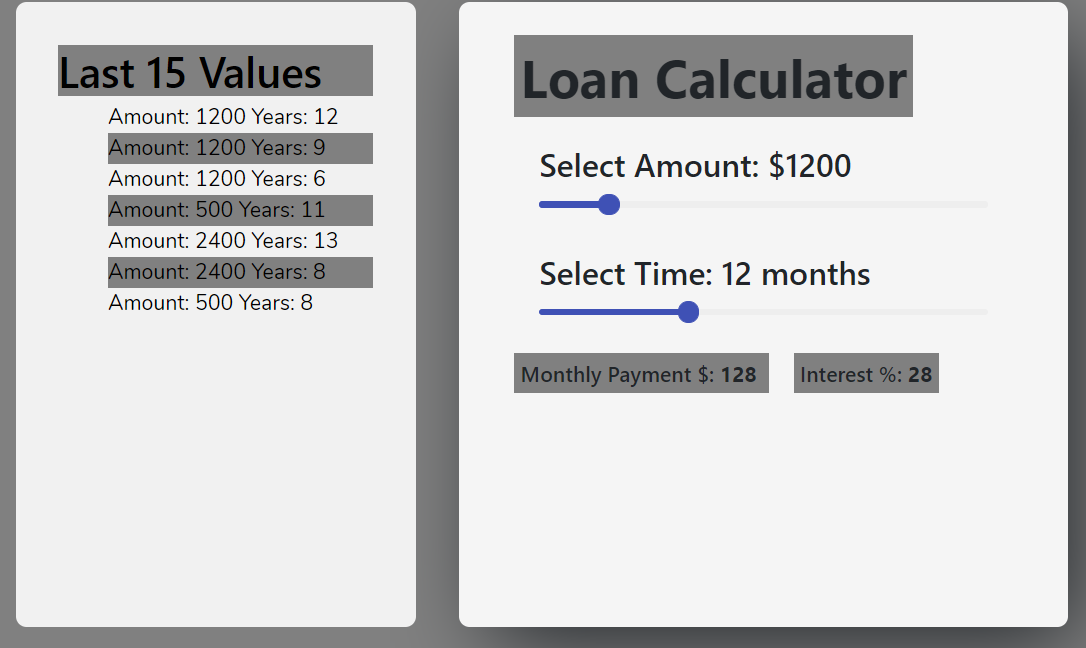
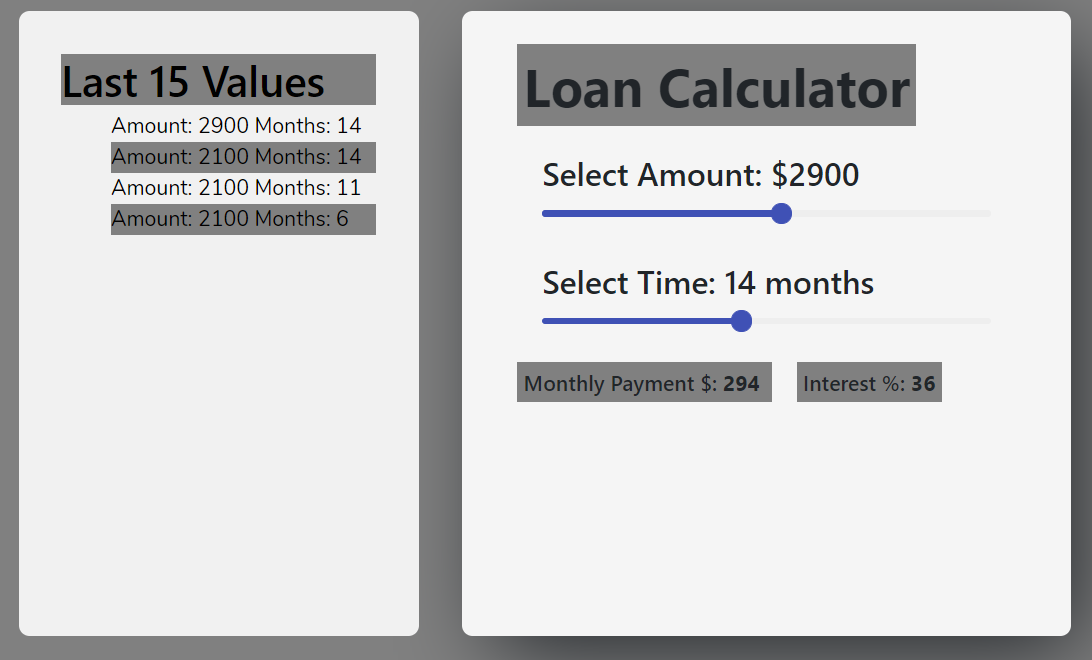
minor changes

diff --git a/src/components/Sidebar.js b/src/components/Sidebar.js
@@ -23,13 +23,13 @@ class SideBar extends Component {
             temp1 = amount.map((amount,i) => {
                 return(
                     <li onClick={getValue.bind(this)} key={i} amount={amount.amount} years={amount.years}>
-                         Amount: {amount.amount} Years: {amount.years} </li>
+                         Amount: {amount.amount} Months: {amount.years} </li>
                 )
             })
 
         }
         
-       /* if(years !== null){
+       /* if(years !== null){ser
             temp2 = years.map((years,i) => {
                 return(
                     <li key={i}> Years: {years} </li>
